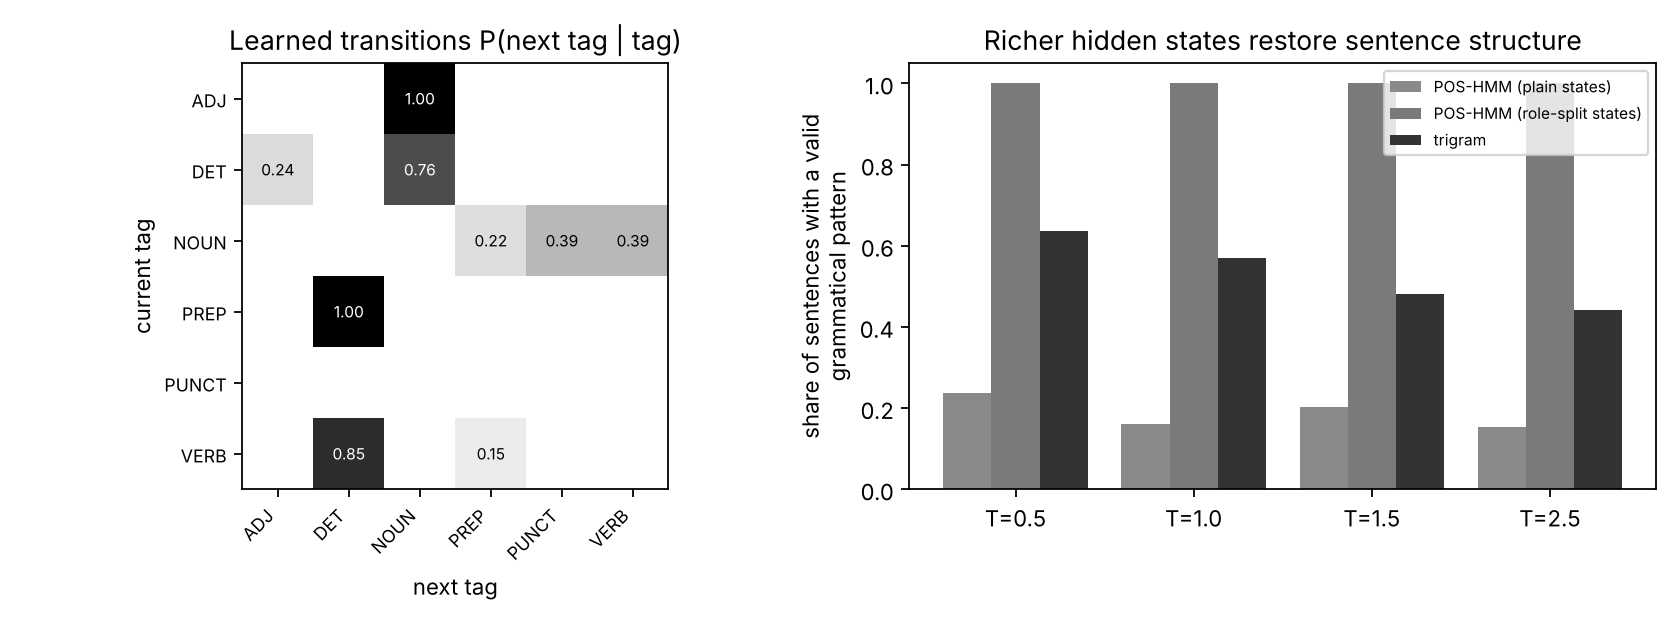
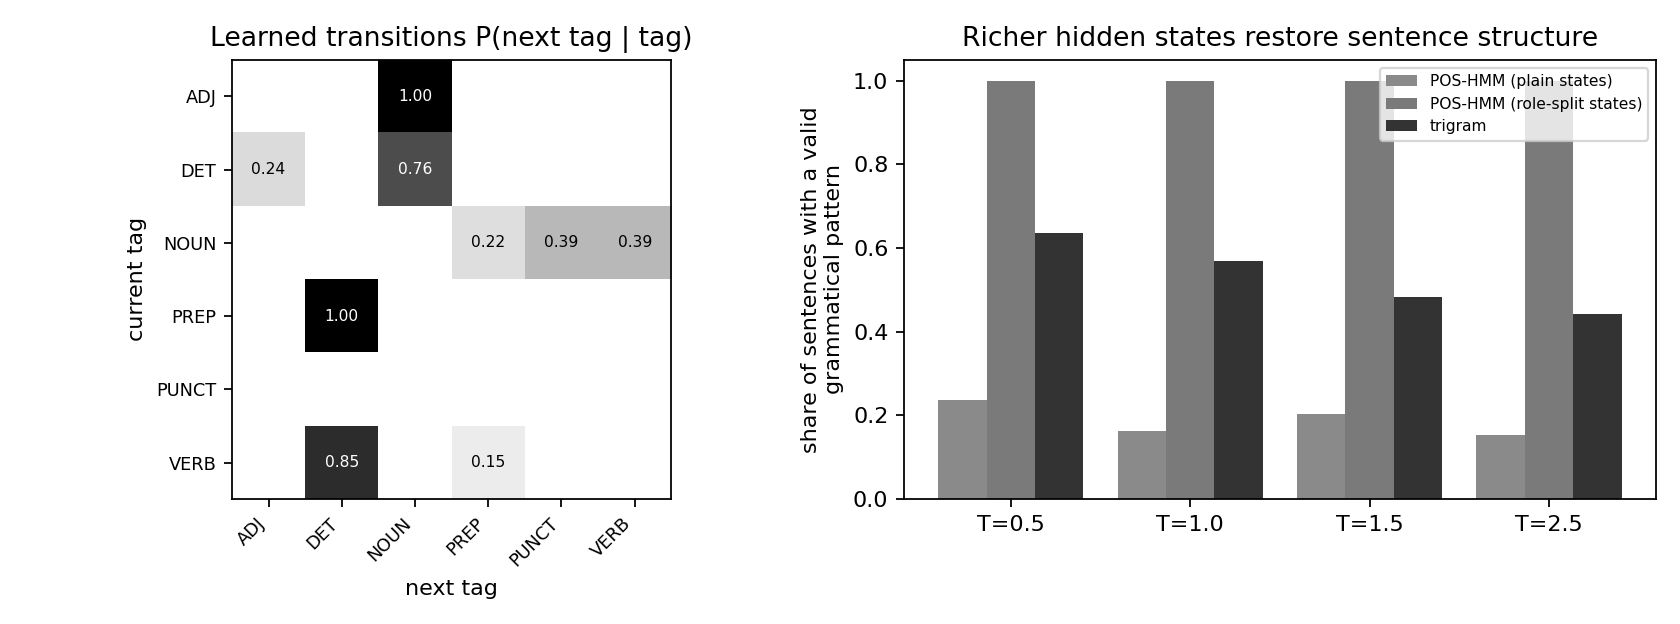
Extend Streamlit app: 3 models, metrics, tagger, CSV

diff --git a/app.py b/app.py
@@ -1,46 +1,135 @@
-"""Lab 03 - Chaotic Text Generator (Streamlit UI). Run:  streamlit run app.py"""
+"""Lab 03 - Chaotic Text Generator: test bench for text generators. Run:  streamlit run app.py"""
 import random
+import re
 
+import pandas as pd
 import streamlit as st
 
-from src.pipeline import HMM, NGramGenerator, load_tagged, split_by_document
+from src.pipeline import (HMM, NGramGenerator, coarse, generation_metrics,
+                          load_tagged, split_by_document)
 
-st.set_page_config(page_title="Chaotic Text Generator")
-st.title("Chaotic Text Generator")
-st.caption("Left: POS-HMM (hidden tags -> words).  Right: trigram model.  Same temperature, same seed.")
+st.set_page_config(page_title="Chaotic Text Generator", layout="wide")
+st.title("Chaotic Text Generator - test bench")
+
+NOTICE = ("The corpus is synthetic and the grammar is tiny. Metrics such as valid tag pattern are "
+          "defined relative to this corpus and do not measure the quality of real English.")
+st.warning(NOTICE)
+
+MODELS = ["HMM (plain states)", "HMM (role-split states)", "Trigram"]
+METRIC_LABELS = {"valid_tag_pattern": "Valid tag pattern",
+                 "plausible_subject_verb": "Plausible subject-verb",
+                 "novel_sentences": "Novel sentences",
+                 "distinct_2": "Distinct-2"}
 
 
 @st.cache_resource
 def get_models():
     docs = load_tagged()
     train, _ = split_by_document(docs)
-    return HMM(train), HMM(train, split_states=True), NGramGenerator([w for w, _ in train])
+    plain, split = HMM(train), HMM(train, split_states=True)
+    ng = NGramGenerator([w for w, _ in train])
+    return train, plain, split, ng
 
 
-hmm_plain, hmm_split, ng = get_models()
+train, hmm_plain, hmm_split, ngram = get_models()
+train_text = {" ".join(w) for w, _ in train}
+train_patterns = {" ".join(t) for _, t in train}
 
-c1, c2, c3 = st.columns(3)
-temperature = c1.slider("Temperature (chaos)", 0.3, 3.0, 1.0, 0.1)
-seed = c2.number_input("Random seed", 0, 10_000, 42)
-prefix_text = c3.text_input("Trigram prompt (optional)", "the")
-split = st.checkbox("HMM with role-split states (S / O / P) - better sentence structure", value=False)
-hmm = hmm_split if split else hmm_plain
 
-prefix = prefix_text.lower().split()
-unknown = [w for w in prefix if w not in ng.vocab]
-if unknown:
-    st.error(f"Unknown word(s) in the prompt: {', '.join(unknown)}. Use words from the training vocabulary, "
-             f"e.g. the, cats, farmers, garden.")
-else:
-    if st.button("Generate two samples", type="primary"):
-        rng = random.Random(int(seed))
-        left, right = st.columns(2)
-        for i in range(2):
+def generate(model, n, temperature, seed):
+    """Return a list of (words, coarse_tags, hidden_states) for n sentences."""
+    rng = random.Random(int(seed))
+    out = []
+    for _ in range(n):
+        if model == MODELS[2]:
+            words = ngram.sample_sentence(rng, temperature)
+            tags = hmm_plain.viterbi(words)          # tag the trigram output with Viterbi
+            states = tags
+        else:
+            hmm = hmm_split if model == MODELS[1] else hmm_plain
             words, states = hmm.sample_with_states(rng, temperature)
-            left.markdown(f"**{' '.join(words)}**")
-            left.caption(" → ".join(states))
-        for i in range(2):
-            words = ng.sample_sentence(rng, temperature, prefix=prefix)
-            right.markdown(f"**{' '.join(words)}**")
-        st.caption("A POS-HMM only knows grammar patterns, not meaning: expect fluent nonsense such as "
-                   "'the apples sleep in the school'. That is the point of the lab.")
+            tags = coarse(states)
+        out.append((words, tags, states))
+    return out
+
+
+def metrics_of(samples):
+    return generation_metrics([(w, t) for w, t, _ in samples], train, hmm_plain)
+
+
+# ------------------------------------------------------------------ 1. control panel
+st.header("1. Control panel")
+c1, c2, c3, c4 = st.columns(4)
+model = c1.selectbox("Model", MODELS)
+temperature = c2.slider("Temperature", 0.3, 3.0, 1.0, 0.1)
+seed = c3.number_input("Random seed", 0, 10_000, 42)
+n_sent = c4.slider("Number of sentences", 10, 500, 100, 10)
+
+# ------------------------------------------------------------------ 2. generate
+if st.button("Generate", type="primary"):
+    samples = generate(model, n_sent, temperature, seed)
+    rows = []
+    for i, (w, t, s) in enumerate(samples, 1):
+        pattern = " ".join(t)
+        rows.append({"#": i, "sentence": " ".join(w), "hidden tags": " ".join(s),
+                     "valid pattern": "✅" if pattern in train_patterns else "❌",
+                     "copied from train": "yes" if " ".join(w) in train_text else "no"})
+    st.session_state["result"] = {"df": pd.DataFrame(rows), "metrics": metrics_of(samples),
+                                  "settings": (model, temperature, int(seed), n_sent)}
+
+res = st.session_state.get("result")
+if res:
+    m_name, m_temp, m_seed, m_n = res["settings"]
+    st.subheader(f"Generated sentences - {m_name}, T={m_temp}, seed={m_seed}, n={m_n}")
+    st.dataframe(res["df"], hide_index=True)
+
+    # -------------------------------------------------------------- 3. metrics
+    st.header("2. Metrics of the generated batch")
+    cols = st.columns(4)
+    for col, (key, label) in zip(cols, METRIC_LABELS.items()):
+        v = res["metrics"][key]
+        col.metric(label, f"{v:.3f}" if key == "distinct_2" else f"{v:.1%}")
+
+    # -------------------------------------------------------------- 5. CSV
+    csv = res["df"].assign(model=m_name, temperature=m_temp, seed=m_seed).to_csv(index=False)
+    st.download_button("Download CSV", csv, file_name="generated_sentences.csv", mime="text/csv")
+else:
+    st.info("Choose the settings and click Generate.")
+
+# ------------------------------------------------------------------ optional: comparison
+st.header("3. Compare the three models (optional)")
+oc1, oc2 = st.columns(2)
+if oc1.button("Compare the 3 models at the current settings"):
+    comp = {}
+    for mod in MODELS:
+        comp[mod] = metrics_of(generate(mod, n_sent, temperature, seed))
+    df = pd.DataFrame(comp).T.rename(columns=METRIC_LABELS)
+    st.dataframe(df.style.format("{:.3f}"))
+if oc2.button("Plot valid tag pattern vs temperature"):
+    temps = [0.5, 1.0, 1.5, 2.0, 2.5, 3.0]
+    curve = {mod: [metrics_of(generate(mod, n_sent, t, seed))["valid_tag_pattern"] for t in temps]
+             for mod in MODELS}
+    st.line_chart(pd.DataFrame(curve, index=temps).rename_axis("temperature"))
+
+# ------------------------------------------------------------------ 4. tagger
+st.header("4. Viterbi tagger")
+text = st.text_input("Type a sentence", "the old farmers watch the birds .")
+tokens = re.findall(r"\w+|[^\w\s]", text.lower())[:40]
+if not tokens:
+    st.info("Type a sentence to see its tags.")
+else:
+    unknown = [w for w in tokens if w not in hmm_plain.vocab]
+    if unknown:
+        st.warning(f"Unknown word(s), not in the training vocabulary: {', '.join(sorted(set(unknown)))}. "
+                   "The tag below is a guess and may be unreliable.")
+    try:
+        tags = hmm_plain.viterbi(tokens)
+        shown = [f"{w} (?)" if w in unknown else w for w in tokens]
+        table = pd.DataFrame([shown, tags], index=["word", "Viterbi tag"],
+                             columns=range(1, len(tokens) + 1))
+        st.dataframe(table)
+    except Exception as exc:  # never crash the app on user input
+        st.error(f"Could not tag this sentence: {exc}")
+
+st.caption("A generated sentence is fluent but has no meaning or intent. Do not present generated text "
+           "as written by a person.")
